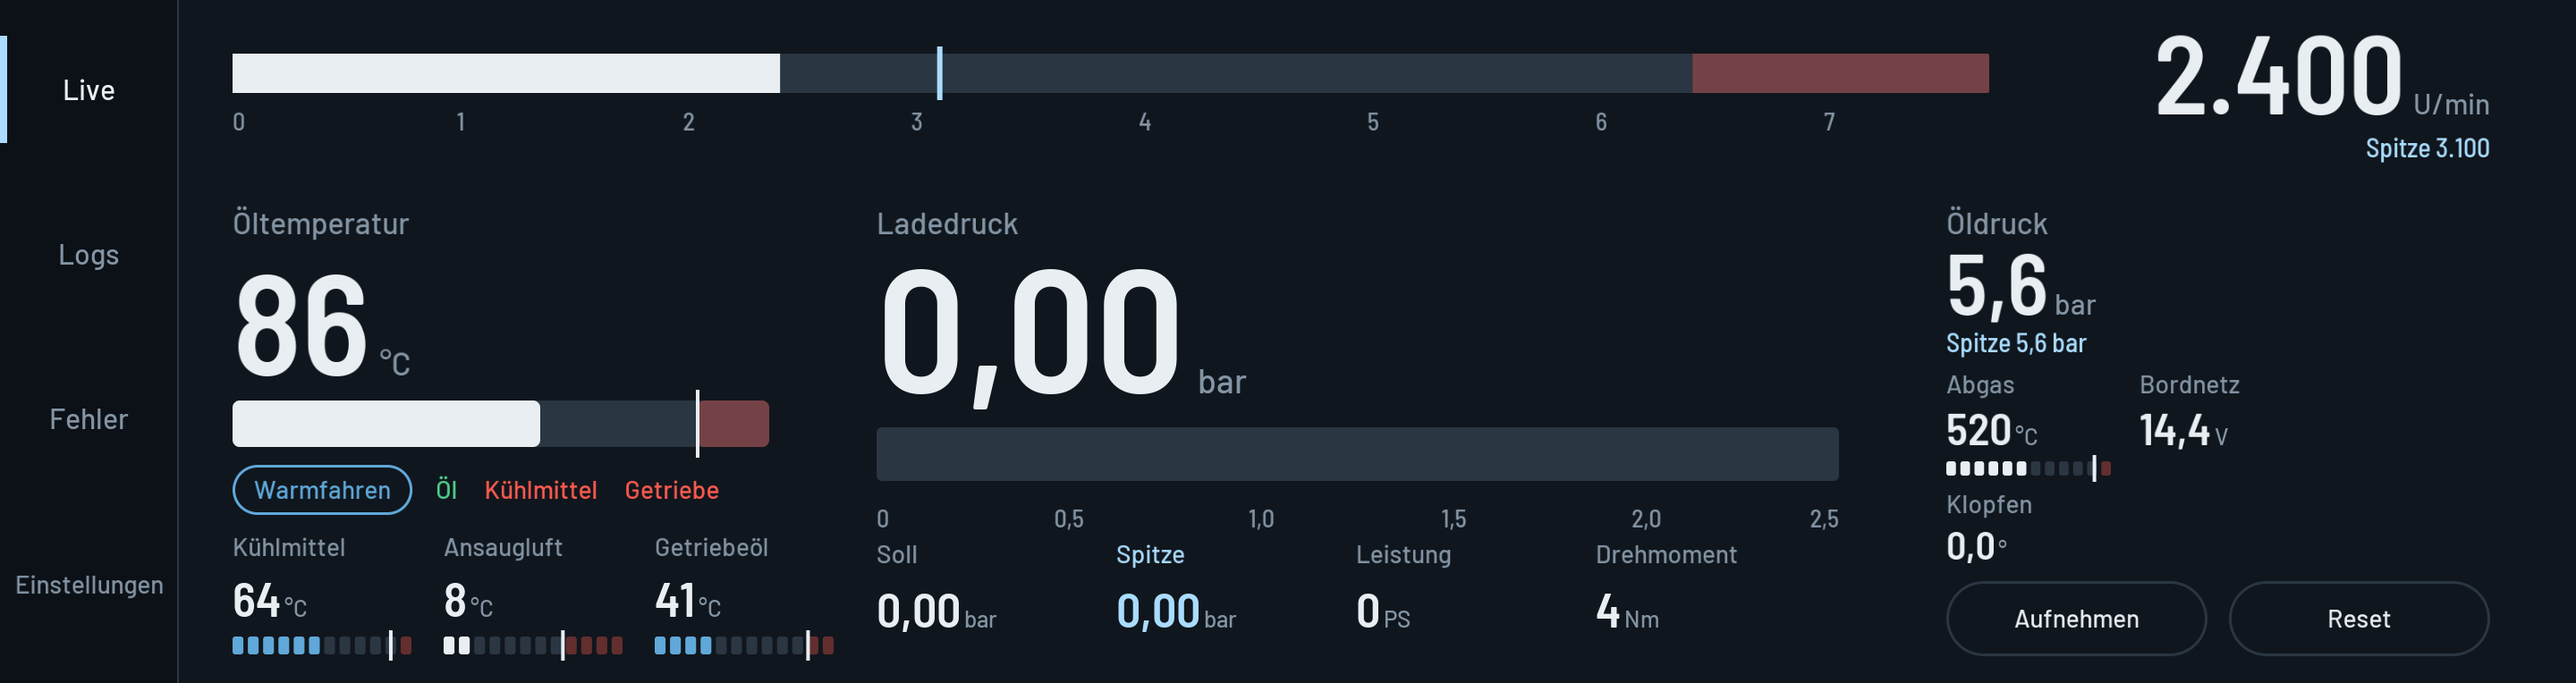
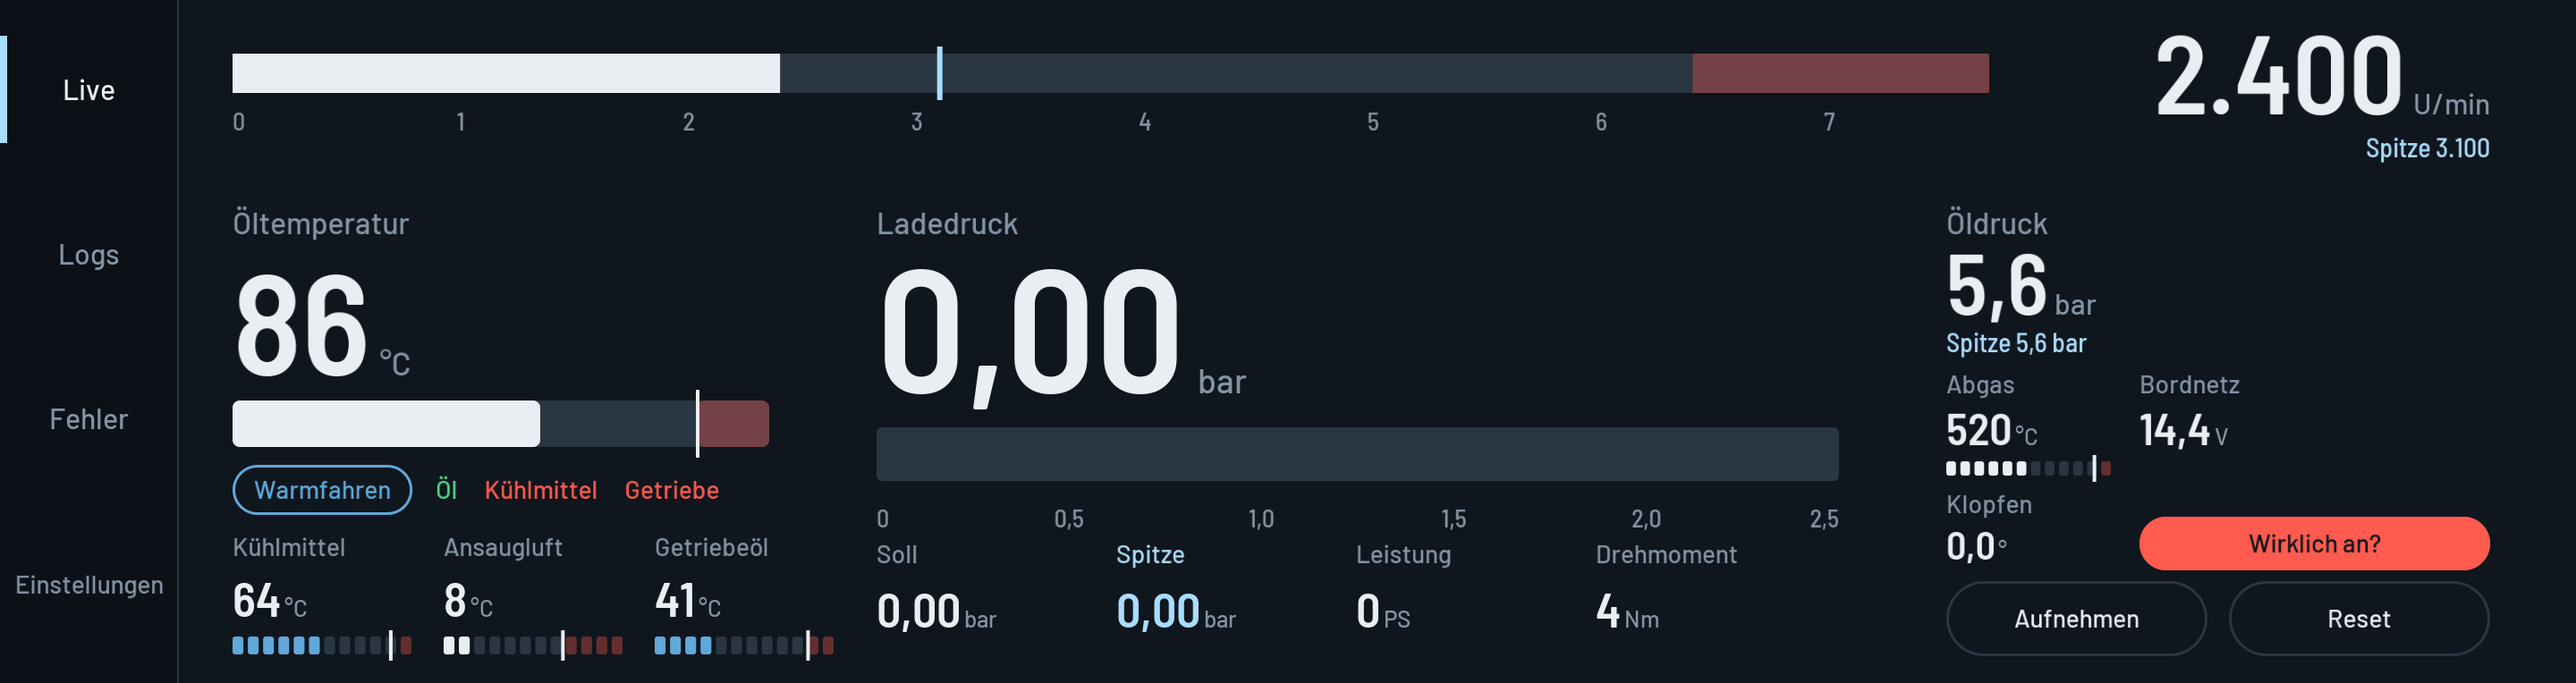
0.21.0: MHD Max Cooling: a settings card to arm it (off by default), a button beside Klopfen with a confirm step, On only with the engine running; tasu allows exactly 2F 03 01 / 2F 03 00 to the DME (Live Adjustments' commands, MIT)

Changed region(s): [[0.8125, 0.7526, 0.9688, 0.8429]]

diff --git a/apps/km_motordaten/src/dash.js b/apps/km_motordaten/src/dash.js
@@ -66,7 +66,18 @@ function mainTargets(extra) {
     return [
         { id: 'record', x, y: 650, w: BW, h: BH, label: rec ? `Stopp ${time}` : 'Aufnehmen', live: !!rec },
         { id: 'reset', x: x + BW + 24, y: 650, w: BW, h: BH, label: 'Reset' }
-    ];
+    ].concat(coolingTarget(extra));
+}
+
+/* MHD's Max Cooling, while switched on in the settings (extra.cooling): its button beside Klopfen. */
+function coolingTarget(extra) {
+    const c = extra && extra.cooling;
+    if (!c) {
+        return [];
+    }
+    const label = c.note ? c.note : c.busy ? 'Sende …' : c.confirm ? 'Wirklich an?' : c.state === 'ON' ? 'Max Cooling an' : 'Max Cooling';
+    return [{ id: c.confirm ? 'cooling!' : 'cooling', x: COL.right.x + 216, y: 578, w: 392, h: 60, label,
+        danger: !!c.confirm, live: false, on: c.state === 'ON' }];
 }
 
 /* The tabs, on every page: first in controller order. */
@@ -89,9 +100,14 @@ const BACK_SET = { id: 'settings:back', x: W - PAD - 300, y: 64, w: 300, h: 84, 
 
 /* The settings menu: one card per sub-page. */
 const MENU = [
-    { id: 'menu:limits', page: 'limits', label: 'Grenzwerte', text: 'Ab wann jeder Wert rot wird: Drehzahl, Temperaturen, Drücke, Klopfen, Bordnetz' },
-    { id: 'menu:ready', page: 'ready', label: 'Bereit für Volllast', text: 'Welche Temperaturen erreicht sein müssen, bis die Live-Seite „Bereit“ zeigt' }
-].map((m, i) => Object.assign(m, { x: X0 + i * 1288, y: 220, w: 1236, h: 300 }));
+    { id: 'menu:limits', page: 'limits', label: 'Grenzwerte', text: 'Ab wann die Werte rot werden' },
+    { id: 'menu:ready', page: 'ready', label: 'Bereit für Volllast', text: 'Welche Temperaturen erreicht sein müssen' },
+    { id: 'menu:mhd', page: 'mhd', label: 'MHD-Tuning', text: 'Max Cooling direkt aus der App' }
+].map((m, i, all) => {
+    const gap = 52;
+    const w = Math.floor((W - PAD - X0 - gap * (all.length - 1)) / all.length);
+    return Object.assign(m, { x: X0 + i * (w + gap), y: 220, w, h: 300 });
+});
 
 function settingsTargets() {
     const out = [];
@@ -124,6 +140,10 @@ function readyTargets() {
     return out;
 }
 const READY_TARGETS = readyTargets();
+
+/* The MHD page: the switch for the Max Cooling button. */
+const MHD_SWITCH = { id: 'toggle:mhdCoolingOn', x: X0, y: SET_TOP + 30, w: 220, h: BTN, label: '' };
+const MHD_TARGETS = [MHD_SWITCH, BACK_SET];
 
 /* ---- the logs pages ---- */
 
@@ -228,6 +248,8 @@ function targets(page, extra) {
         own = SETTINGS_TARGETS;
     } else if (page === 'ready') {
         own = READY_TARGETS;
+    } else if (page === 'mhd') {
+        own = MHD_TARGETS;
     } else if (page === 'logs') {
         own = logsTargets(extra);
     } else if (page === 'log') {
@@ -244,7 +266,7 @@ function targets(page, extra) {
 function rail(rec, page, ui) {
     rec.fillRect(0, 0, RAIL, H, '#0C1117');
     rec.fillRect(RAIL - 2, 0, 2, H, C.line);
-    const current = page === 'log' ? 'logs' : page === 'faultunit' ? 'faults' : page === 'limits' || page === 'ready' ? 'settings' : page;
+    const current = page === 'log' ? 'logs' : page === 'faultunit' ? 'faults' : page === 'limits' || page === 'ready' || page === 'mhd' ? 'settings' : page;
     TABS.forEach((t) => {
         const on = t.page === current;
         if (ui && ui.pressed === t.id) {
@@ -274,12 +296,12 @@ function button(rec, t, ui, opts) {
     if (ui && ui.pressed === t.id) {
         rec.roundRect(t.x, t.y, t.w, t.h, r, C.line);
     }
-    if (live) {
-        rec.roundRect(t.x, t.y, t.w, t.h, r, C.limit);
+    if (live || t.on) {
+        rec.roundRect(t.x, t.y, t.w, t.h, r, live ? C.limit : C.cold);
     }
-    rec.strokeRoundRect(t.x, t.y, t.w, t.h, r, 3, live ? C.limit : opts && opts.primary ? C.text : C.line);
+    rec.strokeRoundRect(t.x, t.y, t.w, t.h, r, 3, live ? C.limit : t.on ? C.cold : opts && opts.primary ? C.text : C.line);
     const size = (opts && opts.size) || 32;
-    rec.text(t.label, t.x + t.w / 2, t.y + t.h / 2 + size * 0.36, size, live ? C.asphalt : C.text, { font: 'label', align: 'center' });
+    rec.text(t.label, t.x + t.w / 2, t.y + t.h / 2 + size * 0.36, size, live || t.on ? C.asphalt : C.text, { font: 'label', align: 'center' });
 }
 
 /* A value and its unit on one baseline; align 'left' or 'right' (right: the unit's end at x). */
@@ -575,6 +597,36 @@ function readyPage(rec, cfg, ui) {
         const step = t.id.indexOf('dec:') === 0 || t.id.indexOf('inc:') === 0;
         button(rec, t, ui, { size: step ? 52 : 32 });
     });
+}
+
+/* A switch: a pill with its knob, ice when on. */
+function toggleSwitch(rec, sw, on, ui) {
+    if (ui && ui.focus === sw.id) {
+        rec.strokeRoundRect(sw.x - 8, sw.y - 8, sw.w + 16, sw.h + 16, sw.h / 2 + 8, 5, C.ice);
+    }
+    rec.roundRect(sw.x, sw.y, sw.w, sw.h, sw.h / 2, on ? C.ice : C.line);
+    const knob = sw.h - 16;
+    rec.roundRect(on ? sw.x + sw.w - knob - 8 : sw.x + 8, sw.y + 8, knob, knob, knob / 2, on ? C.asphalt : C.dim);
+    rec.text(on ? 'Ein' : 'Aus', on ? sw.x + 36 : sw.x + sw.w - 36, sw.y + sw.h / 2 + 11, 30, on ? C.asphalt : C.dim,
+        { font: 'label', align: on ? 'left' : 'right' });
+}
+
+/* MHD: whether the live page has the Max Cooling button; what it does, and what it needs. */
+function mhdPage(rec, cfg, ui) {
+    rec.text('MHD-Tuning', X0, 120, 56, C.text, { font: 'label' });
+    rec.text('Nur für eine Motorsteuerung mit MHD-Software. Ohne MHD lehnt sie den Befehl ab, es passiert nichts.', X0, 166, 30, C.dim,
+        { font: 'label' });
+    const on = !!cfg.mhdCoolingOn;
+    toggleSwitch(rec, MHD_SWITCH, on, ui);
+    rec.text('Max Cooling-Knopf auf der Live-Seite', MHD_SWITCH.x + MHD_SWITCH.w + 56, MHD_SWITCH.y + 64, 44, on ? C.text : C.dim, { font: 'label' });
+    const lines = [
+        'MHD lässt Wasserpumpe und Lüfter auf voller Leistung laufen, etwa vor oder nach schnellen Runden.',
+        'Einschalten nur bei laufendem Motor und mit Rückfrage, Ausschalten jederzeit.',
+        'Die App sendet dafür genau einen Befehl an die Motorsteuerung (2F 03 01 an, 2F 03 00 aus).',
+        'Ob es aktiv ist, meldet MHD nicht zurück: die App zeigt den zuletzt bestätigten Befehl.'
+    ];
+    lines.forEach((l, i) => rec.text(l, X0, MHD_SWITCH.y + 190 + i * 52, 30, C.dim, { font: 'label' }));
+    button(rec, BACK_SET, ui);
 }
 
 function settings(rec, cfg, ui) {
@@ -965,6 +1017,10 @@ function draw(rec, page, v, cfg, ui, extra) {
     }
     if (page === 'ready') {
         readyPage(rec, cfg, ui);
+        return rec;
+    }
+    if (page === 'mhd') {
+        mhdPage(rec, cfg, ui);
         return rec;
     }
     if (page === 'logs') {

diff --git a/apps/km_motordaten/src/motordaten.js b/apps/km_motordaten/src/motordaten.js
@@ -97,7 +97,8 @@ const RPM_INVALID = 65535;
 const TEMP_INVALID = 255;
 const ENGINE_STOPPED_RPM = 200;
 const ENGINE_RUNNING_RPM = 400;   // from here the engine counts as started
-const PEAK_AFTER_START_MS = 5000; // the start's flare (oil pressure, engine speed) is no peak: peaks count from here
+const PEAK_AFTER_START_MS = 5000;
+const COOLING_MIN_RPM = 500;      // MHD Max Cooling goes on only with the engine running // the start's flare (oil pressure, engine speed) is no peak: peaks count from here
 const CYCLE_MS = 90;           // at least this long per round
 const MAX_CYCLE_MS = 1000;     // the longest pause a busy gateway gets
 const SLOW_EVERY = 12;         // the slow values every this many rounds
@@ -291,6 +292,10 @@ class Motordaten extends ListApp {
         if (id.indexOf('tab:') === 0) {
             const page = id.slice(4);
             d.setExtra({ confirmDeleteAll: false, usb: null });
+            if (this._cooling && this._cooling.confirm) {
+                this._cooling = Object.assign({}, this._cooling, { confirm: false });
+                this._coolingShown();
+            }
             if (page === 'logs') {
                 this._showLogs();
             }
@@ -315,12 +320,17 @@ class Motordaten extends ListApp {
             this._toggleRecording();
         } else if (id === 'reset') {
             this.run();
-        } else if (id === 'menu:limits' || id === 'menu:ready') {
+        } else if (id === 'menu:limits' || id === 'menu:ready' || id === 'menu:mhd') {
             d.setPage(id.slice(5));
+        } else if (id === 'cooling') {
+            this._coolingPressed();
+        } else if (id === 'cooling!') {
+            this._sendCooling(true);
         } else if (id === 'settings:back') {
             d.setPage('settings');
         } else if (id.indexOf('toggle:') === 0) {
             this._setLimits(Limits.toggled(this._limits, id.slice(7)));
+            this._coolingShown();
         } else if (id === 'defaults') {
             // the page's own settings back to the defaults
             this._setLimits(Limits.reset(this._limits, d.page === 'ready' ? 'ready' : 'limits'));
@@ -614,6 +624,75 @@ class Motordaten extends ListApp {
         }
     }
 
+    /* ---- MHD Max Cooling (only while switched on in the settings) ---- */
+
+    /* The button on the live page while the setting is on; gone (and nothing sent) while it is off. */
+    _coolingShown() {
+        if (!this._drawn) {
+            return;
+        }
+        this._cooling = this._cooling || { state: null };
+        this._drawn.setExtra({ cooling: this._limits.mhdCoolingOn ? Object.assign({}, this._cooling) : null });
+    }
+
+    _coolingNote(note) {
+        clearTimeout(this._coolingTimer);
+        this._cooling = Object.assign({}, this._cooling, { note, confirm: false });
+        this._coolingShown();
+        this._coolingTimer = setTimeout(() => { this._cooling = Object.assign({}, this._cooling, { note: null }); this._coolingShown(); }, 3000);
+    }
+
+    /* A press: on, it goes off at once; off, On asks first, and only with the engine running. */
+    _coolingPressed() {
+        const c = this._cooling || {};
+        if (!this._limits.mhdCoolingOn || c.busy) {
+            return;
+        }
+        if (c.state === 'ON') {
+            this._sendCooling(false);
+            return;
+        }
+        const rpm = this._v && this._v.rpm;
+        if (!(isNum(rpm) && rpm > COOLING_MIN_RPM)) {
+            this._coolingNote('Erst Motor starten');
+            return;
+        }
+        clearTimeout(this._coolingTimer);
+        this._cooling = Object.assign({}, c, { confirm: true, note: null });
+        this._coolingShown();
+        // unanswered, the question goes away
+        this._coolingTimer = setTimeout(() => { this._cooling = Object.assign({}, this._cooling, { confirm: false }); this._coolingShown(); }, 5000);
+    }
+
+    _sendCooling(on) {
+        const c = this._cooling || {};
+        if (!this._limits.mhdCoolingOn || c.busy) {
+            return;
+        }
+        const rpm = this._v && this._v.rpm;
+        if (on && !(isNum(rpm) && rpm > COOLING_MIN_RPM)) {
+            this._coolingNote('Erst Motor starten');
+            return;
+        }
+        clearTimeout(this._coolingTimer);
+        this._cooling = Object.assign({}, c, { busy: true, confirm: false, note: null });
+        this._coolingShown();
+        Diag.note(`MHD Max Cooling ${on ? 'an' : 'aus'} gesendet`);
+        this._tasu.maxCooling(on).then((echoed) => {
+            this._cooling = { state: echoed ? (on ? 'ON' : 'OFF') : this._cooling.state, busy: false };
+            Diag.note(`MHD Max Cooling: ${echoed ? 'bestätigt' : 'keine Bestätigung'}`);
+            if (echoed) {
+                this._coolingShown();
+            } else {
+                this._coolingNote('Kein MHD-Echo');
+            }
+        }, (e) => {
+            this._cooling = Object.assign({}, this._cooling, { busy: false });
+            this._coolingNote('Nicht gesendet');
+            logger.warn(`max cooling: ${e && e.message}`);
+        });
+    }
+
     _setLimits(limits) {
         this._limits = limits;
         try {
@@ -633,6 +712,7 @@ class Motordaten extends ListApp {
         }
         this._drawn = new Drawn(this.getAppId(), logger);
         this._drawn.setLimits(this._limits);
+        setImmediate(() => this._coolingShown());
         this._drawn.setSingle(dialKnown());
         this._drawn.on('dial', (steps) => {
             // FrontCCU reports the dial: one proxy, the list under the layer a single empty row; kept once it

diff --git a/apps/km_motordaten/tools/preview.js b/apps/km_motordaten/tools/preview.js
@@ -56,6 +56,7 @@ const SCENES = {
 const out = path.join(__dirname, '..', '..', '..', 'docs', 'design', 'preview');
 fs.mkdirSync(out, { recursive: true });
 SCENES.settings = {};
+SCENES.mhd = {};
 SCENES.warming = Object.assign({}, SCENES.cold, { rpm: 2400, rpmPeak: 3100, oil: 86, coolant: 64, gearbox: 41, exhaust: 520 });
 SCENES.limits = {};
 SCENES.ready = {};
@@ -64,7 +65,8 @@ SCENES.warnings = { battSoc: 41, battVoltage: 12.1, battCurrent: -18, knock: 4.5
 const logName = sampleLog();
 const summary = Logbook.summary(logName);
 const EXTRA = {
-    pull: { recording: { ms: 83000 } },
+    pull: { recording: { ms: 83000 }, cooling: { state: 'ON' } },
+    warming: { cooling: { confirm: true } },
     logsusb: { usb: { text: '2 Aufzeichnungen auf „KEVIN“ im Ordner Motordaten gespeichert. Der Stick kann raus.' }, logs: [summary] },
     logs: { logs: [summary, Object.assign({}, summary, { start: new Date(Date.UTC(2026, 10, 13, 18, 5)) })] },
     log: { log: Logbook.load(logName), channel: 'rpm' },
@@ -117,8 +119,8 @@ SCENES.logknock = {};
 SCENES.logbattery = {};
 Object.keys(SCENES).forEach((name) => {
     const rec = new Recorder(dash.W, dash.H);
-    const page = name === 'settings' || name === 'limits' || name === 'ready' ? name : /^logs/.test(name) ? 'logs' : /^log/.test(name) ? 'log' : name === 'faultunit' ? 'faultunit' : /^faults/.test(name) ? 'faults' : 'main';
-    const cfg = /^(settings|limits|ready)$/.test(name) ? Object.assign(Limits.defaults(), { rpmRed: 6800, gearboxReadyOn: 1, gearboxReady: 60 }) :
+    const page = name === 'settings' || name === 'limits' || name === 'ready' || name === 'mhd' ? name : /^logs/.test(name) ? 'logs' : /^log/.test(name) ? 'log' : name === 'faultunit' ? 'faultunit' : /^faults/.test(name) ? 'faults' : 'main';
+    const cfg = /^(settings|limits|ready|mhd)$/.test(name) ? Object.assign(Limits.defaults(), { rpmRed: 6800, gearboxReadyOn: 1, gearboxReady: 60 }) :
         name === 'cold' || name === 'pull' || name === 'warming' ? Object.assign(Limits.defaults(), { gearboxReadyOn: 1 }) : Limits.defaults();
     if (name === 'warnings') cfg.oilMax = 125;
     dash.draw(rec, page, SCENES[name], cfg, { focus: name === 'pull' ? 'reset' : name === 'limits' ? 'inc:oilMax' : name === 'ready' ? 'toggle:gearboxReadyOn' : null },

diff --git a/apps/km_motordaten/tools/test_faults.js b/apps/km_motordaten/tools/test_faults.js
@@ -66,6 +66,23 @@ const frame = (ecu, uds) => ({ udsResponse: Buffer.from([0, 0, 0, 0, 0, 0, ecu, 
     await assert.rejects(t2.request(0x14, [0xFF, 0xFF, 0xFF]), /nur lesen/, 'request() does not clear');
     assert.strictEqual(asked.length, 1);
 
+    // MHD Max Cooling: exactly 2F 03 01 / 2F 03 00, to the DME only; accepted on the DME's echo
+    const t4 = new Tasu(log);
+    const sent4 = [];
+    let answer4 = (req) => [0x6F].concat(req.slice(1));
+    t4._setProxy({ sendTasuRequest: (p) => {
+        const req = [p.serviceID].concat(Array.from(p.udsData));
+        sent4.push({ target: p.targetAddress, req });
+        setTimeout(() => t4._onResponse(frame(p.targetAddress, answer4(req))), 3);
+        return Promise.resolve({ TasuErrorEnum: 'NO_ERROR' });
+    } });
+    assert.strictEqual(await t4.maxCooling(true), true);
+    assert.strictEqual(await t4.maxCooling(false), true);
+    assert.deepStrictEqual(sent4, [{ target: 0x12, req: [0x2F, 0x03, 0x01] }, { target: 0x12, req: [0x2F, 0x03, 0x00] }]);
+    answer4 = () => [0x7F, 0x2F, 0x31];                                    // an untuned DME refuses it
+    assert.strictEqual(await t4.maxCooling(true), false);
+    await assert.rejects(t4.request(0x2F, [0x03, 0x01]), /nur lesen/, 'request() never writes');
+
     // status words, sorting: active first
     assert.strictEqual(Faults.stateOf(0x08), 'gespeichert');
     assert.strictEqual(Faults.stateOf(0x04), 'vorläufig');

diff --git a/apps/km_motordaten/tools/test_drawn.js b/apps/km_motordaten/tools/test_drawn.js
@@ -197,7 +197,14 @@ const center = (t) => [t.x + t.w / 2, t.y + t.h / 2];
     d.on('targets', (t) => told.push(t.length));
     d.setPage('settings');
     assert.deepStrictEqual(told, [dash.targets('settings', d.extra).length]);
-    assert.deepStrictEqual(dash.targets('settings').slice(4).map((t) => t.id), ['menu:limits', 'menu:ready']);
+    assert.deepStrictEqual(dash.targets('settings').slice(4).map((t) => t.id), ['menu:limits', 'menu:ready', 'menu:mhd']);
+    assert.deepStrictEqual(dash.targets('mhd').slice(4).map((t) => t.id), ['toggle:mhdCoolingOn', 'settings:back']);
+    // the Max Cooling button only while switched on (extra.cooling), its confirm step, its on state
+    assert.ok(!dash.targets('main', {}).some((t) => /^cooling/.test(t.id)), 'no button while off');
+    assert.strictEqual(dash.targets('main', { cooling: { state: null } }).pop().label, 'Max Cooling');
+    assert.strictEqual(dash.targets('main', { cooling: { confirm: true } }).pop().id, 'cooling!');
+    assert.ok(dash.targets('main', { cooling: { state: 'ON' } }).pop().on);
+    ['mhd'].forEach((p) => dash.draw(new (require('../src/kit_record.js').Recorder)(dash.W, dash.H), p, {}, Limits.defaults(), null, {}));
     const menuReady = dash.targets('settings').find((t) => t.id === 'menu:ready');
     g.emit('touch', 'down', ...center(menuReady));
     g.emit('touch', 'up', ...center(menuReady));

diff --git a/apps/km_motordaten/src/tasu.js b/apps/km_motordaten/src/tasu.js
@@ -271,6 +271,20 @@ class Tasu extends EventEmitter {
         return p;
     }
 
+    /**
+     * MHD's Max Cooling in a DME that runs MHD's code: 2F 03 01 on, 2F 03 00 off, to the DME only (the commands of
+     * cauliflowermossgrape/idrive7-apps' Live Adjustments, MIT, validated on an MG1 with MHD). Resolves to true when
+     * the DME echoes it (6F 03 0x), false when it refuses (an untuned DME) or stays silent. Nothing else is
+     * written; the caller lets On go only with the engine running.
+     */
+    maxCooling(on) {
+        const data = [0x03, on ? 0x01 : 0x00];
+        const run = () => this._request(0x2F, data, 2500, DME);
+        const p = this._chain.then(run, run).then((u) => !!(u && u[0] === 0x6F && u[1] === 0x03 && u[2] === data[1]));
+        this._chain = p.catch(() => undefined);
+        return p;
+    }
+
     _collect(sid, data, idleMs, maxMs) {
         if (!this._proxy()) {
             return Promise.reject(new Error('Diagnose-Dienst nicht offen'));

diff --git a/shared/tasu.js b/shared/tasu.js
@@ -271,6 +271,20 @@ class Tasu extends EventEmitter {
         return p;
     }
 
+    /**
+     * MHD's Max Cooling in a DME that runs MHD's code: 2F 03 01 on, 2F 03 00 off, to the DME only (the commands of
+     * cauliflowermossgrape/idrive7-apps' Live Adjustments, MIT, validated on an MG1 with MHD). Resolves to true when
+     * the DME echoes it (6F 03 0x), false when it refuses (an untuned DME) or stays silent. Nothing else is
+     * written; the caller lets On go only with the engine running.
+     */
+    maxCooling(on) {
+        const data = [0x03, on ? 0x01 : 0x00];
+        const run = () => this._request(0x2F, data, 2500, DME);
+        const p = this._chain.then(run, run).then((u) => !!(u && u[0] === 0x6F && u[1] === 0x03 && u[2] === data[1]));
+        this._chain = p.catch(() => undefined);
+        return p;
+    }
+
     _collect(sid, data, idleMs, maxMs) {
         if (!this._proxy()) {
             return Promise.reject(new Error('Diagnose-Dienst nicht offen'));

diff --git a/apps/km_motordaten/src/limits.js b/apps/km_motordaten/src/limits.js
@@ -26,6 +26,8 @@ const ITEMS = Object.freeze([
     { key: 'knockMax', label: 'Klopf-Warnung ab', unit: '°', def: 3, min: 1, max: 8, step: 0.5, d: 1 },
     { key: 'batteryMin', label: 'Batterie-Warnung unter', unit: '%', def: 50, min: 20, max: 90, step: 5, d: 0 },
     { key: 'voltageMin', label: 'Bordnetz-Warnung (Motor an) unter', unit: 'V', def: 13.0, min: 11, max: 14, step: 0.1, d: 1 },
+    // MHD: the Max Cooling button on the live page (off: no button, nothing sent)
+    { key: 'mhdCoolingOn', group: 'mhd', def: 0, min: 0, max: 1, step: 1, d: 0, toggle: true },
     // ready for full load: each temperature on or off, and the one it has to reach
     { key: 'oilReadyOn', group: 'ready', def: 1, min: 0, max: 1, step: 1, d: 0, toggle: true },
     { key: 'oilReady', group: 'ready', label: 'Öltemperatur', unit: '°C', def: 80, min: 50, max: 110, step: 5, d: 0 },

diff --git a/README.md b/README.md
@@ -22,7 +22,8 @@ Mit Zündung an öffnen.
 Motordaten liest über das Diagnose-Gateway der Headunit, als Tester 0xF4:
 `22 <ID>` (ReadDataByIdentifier, bis zu 8 Kennungen), OBD-II `01` / `09` mit einer PID und den
 Fehlerspeicher `19 02` (auch an alle Steuergeräte gleichzeitig); Einzelanfragen nur an DME und Getriebe.
-Die einzige Änderung im Auto ist Fehler löschen (`14 FF FF FF`): nur auf Wunsch mit Rückfrage, nur bei Motor aus
+Änderungen im Auto gibt es zwei: MHD Max Cooling (`2F 03 01` / `2F 03 00` an die DME, nur wenn in den Einstellungen
+eingeschaltet, an nur bei laufendem Motor, mit Rückfrage) und Fehler löschen (`14 FF FF FF`): nur auf Wunsch mit Rückfrage, nur bei Motor aus
 und Zündung an, je Steuergerät einzeln, nie die Headunit.
 Alles andere lehnt `shared/tasu.js` ab, bevor es das Gateway erreicht: keine
 Sitzungswechsel, kein Löschen, kein Schreiben, keine Routinen. Eine Anfrage

diff --git a/docs/g87-s58.md b/docs/g87-s58.md
@@ -128,3 +128,10 @@ App rechnet die Rücknahme je Zylinder daher nur bei laufendem Motor. 554C: 0. 5
 19 02 0D an 0x29 (DSC) über ENET: sofort 7F 19 78 (Antwort folgt), nach 3,2 s 59 02 FF D3 59 DF 64 (ein Eintrag,
 vorläufig), bei jedem Versuch gleich. Über das Gateway der Headunit kommt das 78 nicht bei der App an: sie wartet
 daher je Steuergerät 4 s (dann 8 s, 12 s).
+
+## MHD Max Cooling
+
+Die einzige Schreib-Funktion neben Fehler löschen, aus in der Grundeinstellung (Einstellungen › MHD-Tuning):
+2F 03 01 an, 2F 03 00 aus, an die DME; MHDs Code antwortet mit dem Echo 6F 03 0x, eine DME ohne MHD lehnt ab.
+Befehle aus cauliflowermossgrape/idrive7-apps, Live Adjustments (MIT), dort an einem MG1 mit MHD bestätigt. An nur
+über 500 U/min und mit Rückfrage. MHD meldet den Zustand nicht zurück.
